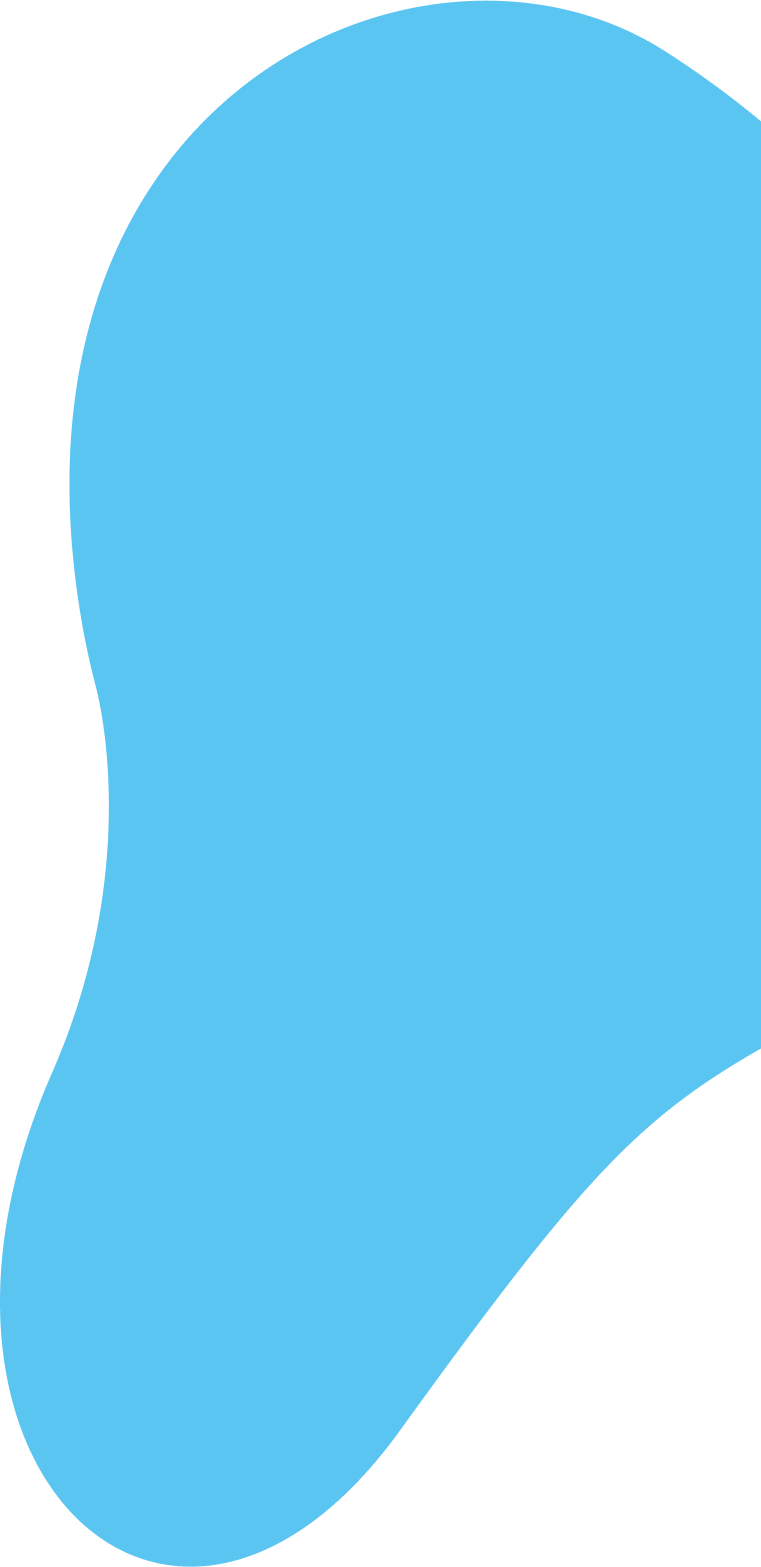
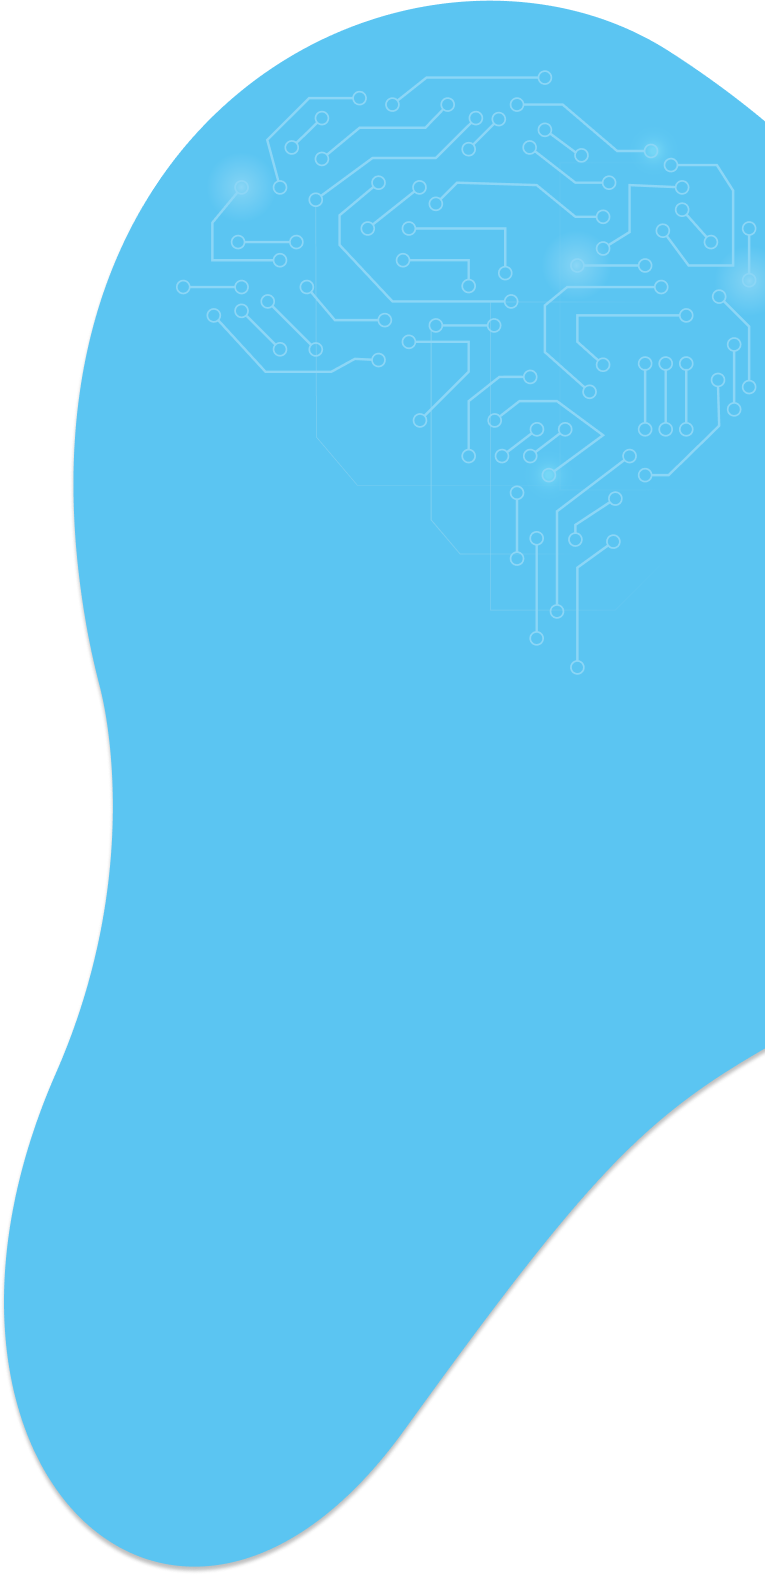
created header section

diff --git a/index.html b/index.html
@@ -12,6 +12,7 @@
   <body>
    <header class="header">
     <section class="header-section">
+      <img src="./images/blobs/Blob header light.png" alt="" class="header__bg-blob-light">
       <div class="top">
         <img src="./images/pics/Logo.png" alt="piq one logo icon" class="top__logo">
         <nav class="nav">
@@ -24,6 +25,32 @@
             <li class="nav__list-elemnt"><a href="" class="nav__list-link">Kontakt</a></li>
           </ul>
         </nav>
+      </div>
+      <div class="bottom">
+        <div class="bottom-left">
+          <div class="bottom-left-upper">
+             <h1 class="bottom-left-upper__heading">Click&Collect 2.0</h1>
+          <p class="bottom-left-upper__paragraph">Nowoczesne, <span class="bottom-left-upper__paragraph--bold">wspierane przez AI</span>,rozwiązania umożliwiające ekspresowe odbiory zamówień </p>
+          </div>
+         <div class="bottom-left-lower">
+          <div class="bottom-left-lower__description-one">
+            <img src="./images/icons/clipboard-icon.png" alt="cliboard icon" class="bottom-left-lower__icon">
+            <p class="bottom-left-lower__paragraph">Lepiej <span class="bottom-left-lower__paragraph--bold">organizuj i poprawiaj wydajność pracowników </span>zaangażowanych w proces Click&Collect</p>
+          </div>
+          <div class="bottom-left-lower__description-two">
+            <img src="./images/icons/hand-parcel-icon.png" alt="hand holding a parcel" class="bottom-left-lower__icon">
+            <p class="bottom-left-lower__paragraph"><span class="bottom-left-lower__paragraph--bold">Zaoferuj swoim klientom nową jakość </span>podczas dokonywania zakupów online</p>
+          </div>
+         </div>
+         <button class="bottom-left__find-more-btn">Dowiedz się więcej</button>
+        </div>
+        <div class="bottom-right">
+          <div class="bottom-right__pictures">
+            <img src="./images/blobs/blob-header-dark.png" alt="" class="bottom-right__picture bottom-right-pictures__bg-blob">
+            <img src="./images/pics/car-pic.png" alt="a green car" class="bottom-right__picture bottom-right-pictures__car">
+            <img src="./images/pics/robot-header-pic.png" alt="a robot with parcels" class="bottom-right__picture bottom-right-pictures__robot">
+          </div>
+        </div>
       </div>
     </section>
    </header>
